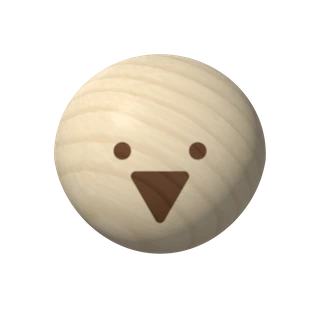
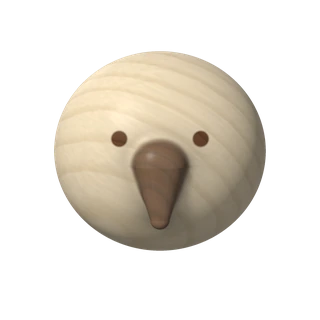
狐とガチョウ: 木のガチョウのくちばしを突き出た形に
Claude-Session: https://claude.ai/code/session_01EiWRAZQof2qofnKntpRWhP

diff --git a/foxgeese/tools/art-pieces.js b/foxgeese/tools/art-pieces.js
@@ -101,19 +101,16 @@ void mat(vec3 p, vec3 n, inout PMat m){
   m.alb = c; m.spec = .45; m.gloss = .5;
 }` };
   P['wood-g'] = { glsl: WOOD3 + `
-float triD(vec2 p){   // a rounded triangle pointing down (the bill, inlaid)
-  const float k = 1.7320508; p.x = abs(p.x) - .16; p.y = p.y + .16 / k;
-  if (p.x + k * p.y > 0.) p = vec2(p.x - k * p.y, -k * p.x - p.y) / 2.;
-  p.x -= clamp(p.x, -.32, 0.); return -length(p) * sign(p.y) - .03;
-}
-float map(vec3 p){ vec3 q = p * 1.06; q.x *= 1. + max(q.y, 0.) * .12; return sdEll(q - vec3(0., -.04, -.1), vec3(.7, .66, .5)) / 1.06; }
+// v5 (2026-11-18 user: the flat triangle looked like a smile): a walnut beak that stands out of the dome, long and pointed downwards
+float beak(vec3 p){ vec3 q = p; q.x *= .95; q.z = (q.z - .36) * 1.5 + .36; vec3 a = vec3(0., .04, .4), b = vec3(0., .4, .36); vec3 ba = b - a, pa = q - a; float h = clamp(dot(pa, ba) / dot(ba, ba), 0., 1.); return (length(pa - ba * h) - mix(.17, .06, h)) * .7; }
+float map(vec3 p){ vec3 q = p * 1.06; return smin(sdEll(q - vec3(0., -.06, -.1), vec3(.7, .66, .5)), beak(q), .05) / 1.06; }
 void mat(vec3 p, vec3 n, inout PMat m){
   vec3 q = p * 1.06;
   vec3 c = wood3(q, hexc(240., 222., 190.), hexc(216., 192., 150.), 7., 1.3);
   vec3 wal = wood3(q * 1.6, hexc(112., 70., 40.), hexc(66., 40., 20.), 10., 4.);
-  float bl = smoothstep(.012, -.004, triD(vec2(q.x, q.y - .2)));
-  float ey = smoothstep(.012, -.004, length(vec2(abs(q.x) - .25, q.y + .06)) - .055);
-  float k = max(bl, ey);
+  float bk = smoothstep(.02, -.005, beak(q));
+  float ey = smoothstep(.012, -.004, length(vec2(abs(q.x) - .27, q.y + .14)) - .05);
+  float k = max(bk, ey);
   m.alb = mix(c, wal, k); m.spec = .45; m.gloss = .5 + k * .1;
 }` };
   // ---------------------------------------------------------------- side view (2026-11-18 v2: the user wanted the wooden and the luxury

diff --git a/foxgeese/index.html b/foxgeese/index.html
@@ -858,7 +858,7 @@ html[data-pcs=lux] .pc.p1{width:calc(var(--cell) * 1.14);height:calc(var(--cell)
 html[data-pcs=lux] .pc.p2{width:calc(var(--cell) * .92);height:calc(var(--cell) * .92);margin:calc(var(--cell) * -.736) 0 0 calc(var(--cell) * -.46);z-index:calc(2 + var(--zr, 0) * 2)}
 html[data-pcs=lux] .pc.sel{z-index:30}
 /* piece sets: rendered from above (tools/art-pieces.js) — --pcB the fox, --pcW a goose */
-html[data-pcs=wood]{--pcB:url(img/2d/pc-wood-f.webp?v=4);--pcW:url(img/2d/pc-wood-g.webp?v=4)}
+html[data-pcs=wood]{--pcB:url(img/2d/pc-wood-f.webp?v=4);--pcW:url(img/2d/pc-wood-g.webp?v=5)}
 html[data-pcs=bauhaus]{--pcB:url(img/2d/pc-bauhaus-f.webp?v=2);--pcW:url(img/2d/pc-bauhaus-g.webp?v=2)}
 html[data-pcs=cute]{--pcB:url(img/2d/pc-cute-f.webp?v=2);--pcW:url(img/2d/pc-cute-g.webp?v=2)}
 html[data-pcs=lux]{--pcB:url(img/2d/pc-lux-f.webp?v=2);--pcW:url(img/2d/pc-lux-g.webp?v=2)}
@@ -1386,7 +1386,7 @@ html[data-bd=meadow] .reserve .rsv-plate.rsv-q.lo b, html[data-bd=bauhaus] .rese
 <script src="coach.js?v=5"></script>
 <script src="coach-i18n.js?v=6"></script>
 <script src="../shared/export.js?v=9l14"></script>
-<script src="../shared/proset.js?v=5t2svhxbf-sp2-pd1p"></script><script src="../shared/luxintro.js?v=3"></script><script src="app.js?v=15"></script><script src="uitheme.js?v=3"></script>
+<script src="../shared/proset.js?v=5t2svhxbf-sp2-pd1p"></script><script src="../shared/luxintro.js?v=3"></script><script src="app.js?v=16"></script><script src="uitheme.js?v=3"></script>
 <script src="online-ui.js?v=2"></script>
 <!-- World Board Game Atlas portal skin: konane/?skin=atlas — 3D boards (a koa tray with the Hawaiian quilt / a rough basalt papamū with pecked cups), coral and basalt pebbles, guide speech bubbles, portal look (all features kept) -->
 <script>

diff --git a/foxgeese/app.js b/foxgeese/app.js
@@ -968,7 +968,7 @@ const BD_KEYS = ['meadow', 'oak', 'bauhaus', 'lux', 'norse', 'delft'], PC_KEYS =
 // where the board's point is in each piece picture (0.5 = the middle: seen from above; the figures seen from the side stand on a plinth)
 const ANCHOR = { lux: .8 };   // (wood: front-facing carved faces again since v3, 2026-11-18)
 const BD_OLD = { slate: 'norse', linen: 'delft', night: 'lux', paper: 'bauhaus' }, PC_OLD = { marble: 'lux', pewter: 'norse', paint: 'bauhaus' };
-const ART = (k, v) => `img/2d/${k}.webp?v=${v || 4}`;
+const ART = (k, v) => `img/2d/${k}.webp?v=${v || 5}`;
 // [frame colour behind the mini boards]
 const BD_PAL = { meadow: ['#e2c79c'], oak: ['#4a2e18'], bauhaus: ['#262628'], lux: ['#1a0f08'], norse: ['#5c5850'], delft: ['#2a1d14'] };
 function designApply() {

diff --git a/claude/foxgeese-spec.md b/claude/foxgeese-spec.md
@@ -88,7 +88,7 @@ URL: https://core-calmdust.github.io/aicoding/foxgeese/ （cat: hist＝ヒスト
 ## 画面（latrunculi/ から派生）
 - **2D の盤6種・駒6種（2026-11-18 作り直し、同日 v2 で調整）**。絵は `tools/gen_art2.py`（`tools/art.html` を headless Chrome で描く GLSL。`art-lib.js`＝ノイズ・盤の線・ライティング、`art-boards.js`＝盤と枠、`art-pieces.js`＝駒（SDF のレイマーチ。真上から見た駒と、横から見た台座付きの像）。可愛い盤・駒とデルフトの絵柄は SVG をテクスチャにする）→ `img/2d/`（`?v=2`）。**盤の絵に線と点が焼き込んである**ので、ページの線のレイヤー（.grv・.pt・.off）は隠し、座標の文字だけ出す。盤 1536px・枠のタイル 512px（継ぎ目なし）・駒 320px。並びと保存キー（settings.bd / settings.pcs）：
   - 盤 `meadow` ひだまり牧場（**既定・先頭**。十字の芝生にステッチの縁、クリーム色の小道と飛び石、四隅に狐の巣穴・りんごの木・池・ガチョウ小屋）・`oak` オーク材（板はぎの無垢板、焼きごての V 溝の線とドリルの穴。v2 で節の楕円を弱めた）・`bauhaus` アブストラクト（紙に黒インクの細線、四隅に色面と幾何学図形）・`lux` 黒大理石と金（金の象嵌の線と金鋲、四隅にアールデコの扇）・`norse` 北欧の石盤（十字が一段高い磨き石、つつき彫りの溝と杯状穴、四隅に岩刻と地衣類。v2 で枠も石に）・`delft` デルフト焼き（白釉にコバルトの筆描き、四隅のメダイヨンに狐・風車・ガチョウ・チューリップ。v2 で釉の光沢と窓の映り込み）。
-  - 駒 `cute` きつね＆がちょう（既定）・`wood` 木の駒（2026-11-18 v4、ユーザー：もう少しアブストラクトに：磨いた桜材の狐（耳2つと顎の3点だけの形、目は切り込み）、白木のドームのガチョウ（くるみ材の三角のくちばしと目を象嵌））・`bauhaus` カラーブロック・`lux` 金と大理石（**横向き・面取りのローポリ彫刻**：金の狐（ルビーの目）と白大理石のガチョウ（金のくちばし）、オニキスと金の台座）・`norse` 骨と琥珀（骨のドームに彫りの輪1本。琥珀の狐は耳と細い顎だけの抽象形）・`delft` 染付。
+  - 駒 `cute` きつね＆がちょう（既定）・`wood` 木の駒（2026-11-18 v4、ユーザー：もう少しアブストラクトに：磨いた桜材の狐（耳2つと顎の3点だけの形、目は切り込み）、白木のドームのガチョウ（くるみ材の目と、突き出たくるみ材のくちばし。v5：平らな三角は笑った口に見えたため））・`bauhaus` カラーブロック・`lux` 金と大理石（**横向き・面取りのローポリ彫刻**：金の狐（ルビーの目）と白大理石のガチョウ（金のくちばし）、オニキスと金の台座）・`norse` 骨と琥珀（骨のドームに彫りの輪1本。琥珀の狐は耳と細い顎だけの抽象形）・`delft` 染付。
   - **横向きの像（lux）**：絵の上から80%（app.js の `ANCHOR`）が盤の点＝台座の中心。CSS で大きさと位置（狐 1.14 マス・ガチョウ .92 マス）、行が下の駒ほど手前（`--zr`＝行、placeAt が入れる）。ミニ盤・駒の見本も ANCHOR で置く。
   - 新しい既定は `settings.dv = 2`。dv のない保存（旧既定のまま）は一度だけ meadow / cute に切り替える。旧キーの読み替え：盤 slate→norse・linen→delft・night→lux・paper→bauhaus、駒 marble→lux・pewter→norse・paint→bauhaus。
   - 3D 盤（atlas/models/foxgeese.js）は**旧来の** `img/bd-*.webp`・`fr-*.webp` を使い続ける（3D は後日作り直し）。
